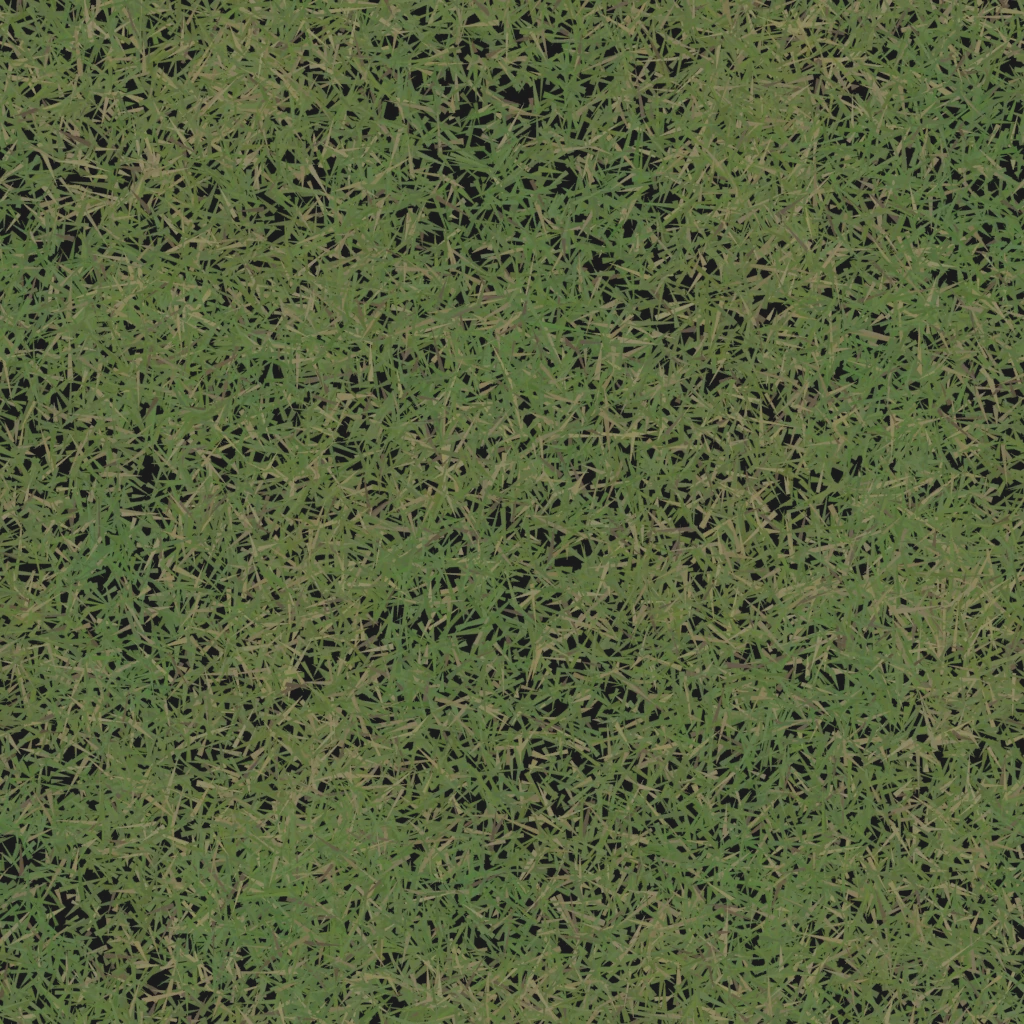
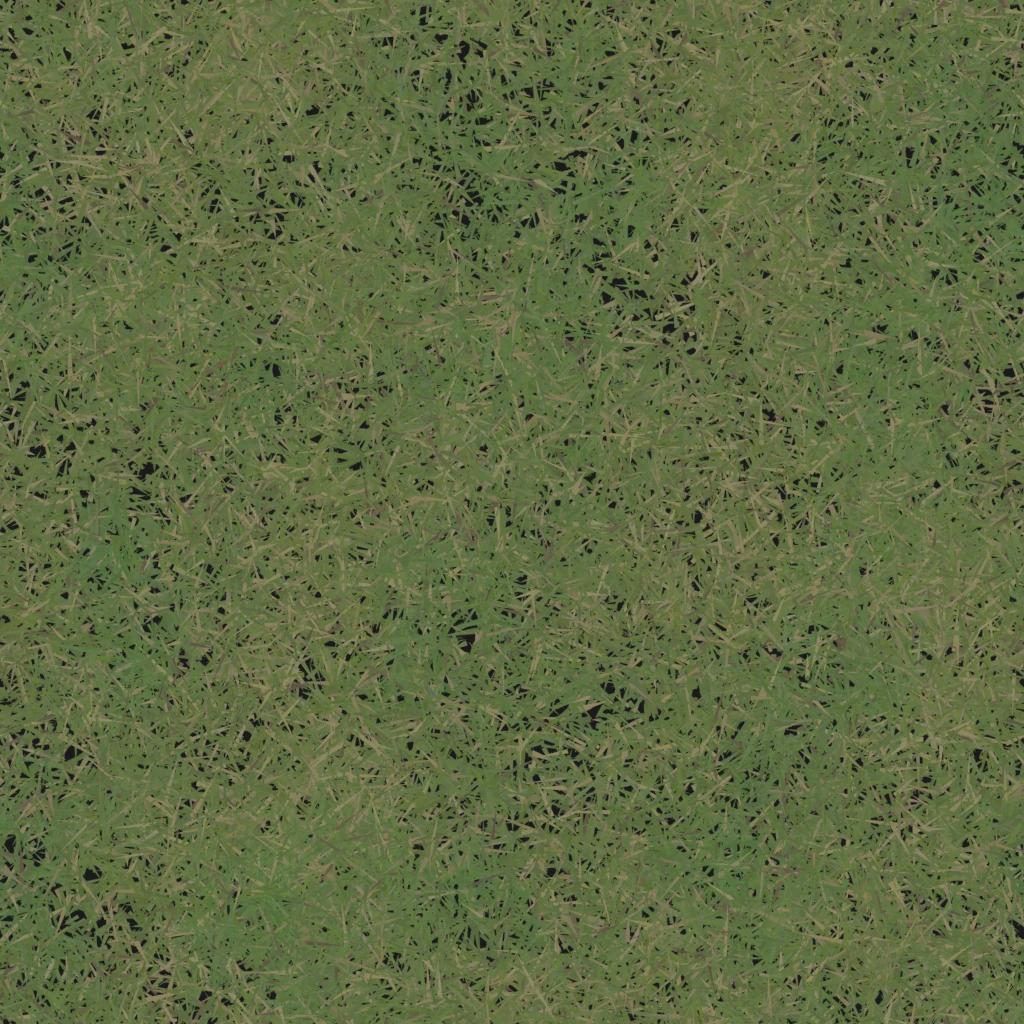
Forests from afar: impostor motion vectors, depth and crown shading
- Impostors had no previous position for the velocity pass. The pass
  took the raw quad corners as last frame's position, so TAA smeared
  every crown toward the world origin, and wooded slopes read as
  streaky carpet. They now report camera-only motion.
- Impostors write the true surface depth from the atlas:
  - neighbouring crowns intersect instead of stacking;
  - the shadow pass sees rounded crowns, so crowns self-shadow.
- The baked crown occlusion now darkens direct light too, so a wood
  reads as distinct crowns with shaded gaps between them.
- The atlas colours are straight alpha: they are no longer divided by
  coverage.
- Meadows:
  - greener, denser Blender turf, with mossy thatch instead of bare
    soil between the blades;
  - shorter blades, lighter in colour;
  - fewer dry straw blades and seed stalks.

Claude-Session: https://claude.ai/code/session_01TZYmFMdZSUGdKYFGqVGCAn

diff --git a/ocean/src/world/vegetation.js b/ocean/src/world/vegetation.js
@@ -14,13 +14,13 @@
 
 import * as THREE from 'three/webgpu';
 import {
-  attribute, positionGeometry, normalGeometry, positionWorld, vec2, vec3, float, sin, cos, mix, smoothstep,
+  attribute, positionGeometry, normalGeometry, positionWorld, vec2, vec3, vec4, float, cameraProjectionMatrix, cameraViewMatrix, sin, cos, mix, smoothstep,
   clamp, max, dot, normalize, cross, screenCoordinate, floor, fract, uniform, texture, uv, cameraPosition, pow,
   select, length, abs, mod, log2, dFdx, dFdy, varying, transformNormalToView, normalMap, sqrt, normalWorld,
 } from 'three/tsl';
 import { GLTFLoader } from 'three/addons/loaders/GLTFLoader.js';
 import { DRACOLoader } from 'three/addons/loaders/DRACOLoader.js';
-import { standard, deform } from '../render/materials.js';
+import { standard, deform, staticVelocity } from '../render/materials.js';
 import { fbm2, vnoise2 } from '../render/tslnoise.js';
 import { env } from '../env.js';
 import { VILLAGE } from './island.js';
@@ -220,8 +220,13 @@ function impostorMaterial(tex, meta, frames) {
   const up = cross(Vw, right);
   const q = positionGeometry.xy;                         // quad corners in [-1, 1]
   // pushed a little toward the eye so slopes do not swallow the lower crown
+  // (the real depth is written per pixel below)
   m.positionNode = cw.add(right.mul(q.x.mul(R)).add(up.mul(q.y.mul(R))).mul(s)).add(Vw.mul(R * 0.3).mul(s));
+  // without this the velocity pass would take the raw quad corners as last
+  // frame's position and TAA would smear every crown toward the world origin
+  staticVelocity(m);
   const vC = varying(cw, 'vImpCentre');
+  const vW = varying(Vw, 'vImpViewWorld');
   const vRot = varying(vec3(cs, sn, s), 'vImpRot');
   const vLo = varying(iRot.zw, 'vImpRange');
   // world -> tree space (inverse yaw)
@@ -254,10 +259,20 @@ function impostorMaterial(tex, meta, frames) {
   const nl = octDecode(r.nrm.xy);
   // tree space -> world (yaw)
   const nw = normalize(vec3(nl.x.mul(vRot.x).add(nl.z.mul(vRot.y)), nl.y, nl.x.mul(vRot.y).negate().add(nl.z.mul(vRot.x))));
-  const albedo = r.col.rgb.div(max(r.col.a, 0.2));
-  m.colorNode = albedo;
+  // (the atlas colours are straight, bled into the empty texels)
+  const albedo = r.col.rgb;
+  // deep foliage is shaded by the leaves around it for the sun as much as
+  // for the sky: without it a wood reads as a flat green carpet
+  const occl = r.nrm.w;
+  m.colorNode = albedo.mul(mix(float(0.3), float(1.05), pow(occl, 1.3)));
   m.normalNode = transformNormalToView(nw);
-  m.aoNode = r.nrm.w.mul(0.6).add(0.4);
+  m.aoNode = occl.mul(0.5).add(0.5);
+  // true surface depth: neighbouring crowns intersect instead of stacking,
+  // and the shadow pass sees the rounded crown (self-shadowing)
+  const depth01 = r.nrm.z;
+  const surface = positionWorld.sub(vW.mul(R * 0.3).mul(vRot.z)).add(vW.mul(depth01.sub(0.5).mul(R * 2)).mul(vRot.z));
+  const clip = cameraProjectionMatrix.mul(cameraViewMatrix.mul(vec4(surface, 1)));
+  m.depthNode = clip.z.div(clip.w);
   const V = normalize(positionWorld.sub(cameraPosition));
   m.emissiveNode = albedo.mul(albedo).mul(env.sunColor).mul(pow(max(dot(V, env.sunDir), 0), 4).mul(0.1));
   // keep distant crowns dense: averaged mips lose coverage (Golus)

diff --git a/ocean/src/world/grass.js b/ocean/src/world/grass.js
@@ -70,11 +70,11 @@ export class Grass {
       const keep = mask.mul(select(slot.div(PER_CELL).lessThan(keepFrac), float(1), float(0))).mul(smoothstep(24.8, 21.5, dist));
       const r = hash22(worldCell.mul(3.1).add(slot.mul(11.3)));
       // short turf with the odd taller seed stalk; lusher where it is damp
-      const stalk = select(r.x.greaterThan(0.94), float(1.9), float(1));
-      const height = mix(0.12, 0.42, r.x).mul(stalk).mul(mix(0.7, 1.15, tuft)).mul(mix(0.8, 1.25, moist)).mul(keep).mul(smoothstep(0.3, 0.6, mask));
+      const stalk = select(r.x.greaterThan(0.96), float(1.7), float(1));
+      const height = mix(0.08, 0.34, r.x.mul(r.x)).mul(stalk).mul(mix(0.7, 1.15, tuft)).mul(mix(0.8, 1.25, moist)).mul(keep).mul(smoothstep(0.3, 0.6, mask));
       const width = mix(0.008, 0.016, r.y).mul(mix(float(1), float(2.2), smoothstep(10, 24, dist)));
       // dry, straw-coloured blades on dry ground (packed into the tint's integer part)
-      const dry = select(hash21(worldCell.mul(1.7).add(slot.mul(5.1))).lessThan(moist.oneMinus().mul(0.3).add(0.04)), float(1), float(0));
+      const dry = select(hash21(worldCell.mul(1.7).add(slot.mul(5.1))).lessThan(moist.oneMinus().mul(0.14).add(0.03)), float(1), float(0));
       this.blades.element(i).assign(vec4(xz.x, h, xz.y, r.x.mul(6.283).add(floor(r.y.mul(50)).mul(6.283))));
       this.shape.element(i).assign(vec4(height, width, r.y.sub(0.5).mul(0.9), hash21(worldCell.add(slot)).mul(0.999).add(dry)));
     })().compute(COUNT, [64]);
@@ -124,8 +124,8 @@ export class Grass {
     const tint = fract(S.w), dry = floor(S.w);
     // real grass albedo (linear) tops out around 0.2 in green: brighter blades
     // would ring the player with a pale disc against the terrain's grass
-    const base = mix(mix(vec3(0.03, 0.058, 0.015), vec3(0.048, 0.075, 0.021), tint), vec3(0.12, 0.1, 0.05), dry);
-    const tip = mix(mix(vec3(0.11, 0.16, 0.045), vec3(0.17, 0.2, 0.065), tint.mul(tint)), vec3(0.3, 0.26, 0.12), dry);
+    const base = mix(mix(vec3(0.045, 0.075, 0.02), vec3(0.06, 0.09, 0.026), tint), vec3(0.14, 0.12, 0.06), dry);
+    const tip = mix(mix(vec3(0.13, 0.18, 0.05), vec3(0.18, 0.21, 0.07), tint.mul(tint)), vec3(0.3, 0.27, 0.13), dry);
     const vt = varying(t, 'vGrassT');
     mat.colorNode = mix(base, tip, vt.pow(0.8));
     const V = normalize(positionWorld.sub(cameraPosition));

diff --git a/ocean/tools/blender/ground.py b/ocean/tools/blender/ground.py
@@ -180,7 +180,7 @@ def grass():
     g = rng(11)
     # soil underneath, barely visible between the blades
     soil = fbm_field(256, 5, 2.2)
-    soil_rgb = (0.07 + 0.045 * soil)[..., None] * np.array([1.0, 0.8, 0.58])
+    soil_rgb = (0.06 + 0.04 * soil)[..., None] * np.array([0.8, 0.95, 0.45])   # mossy, rooty thatch
     bpy.ops.mesh.primitive_plane_add(size=T, location=(T / 2, T / 2, 0))
     bpy.context.object.data.materials.append(plane_material('soil', image_texture('soil', soil_rgb)))
     # patches: denser, greener clumps and thinner, drier ones
@@ -189,7 +189,7 @@ def grass():
     mat = vcol_material('blade', 0.55)
     verts, faces, cols = [], [], []
     count = 0
-    n_blades = 34000
+    n_blades = 52000
     for _ in range(n_blades):
         x, y = g.random() * T, g.random() * T
         c = periodic_sample(clump, T, x, y)
